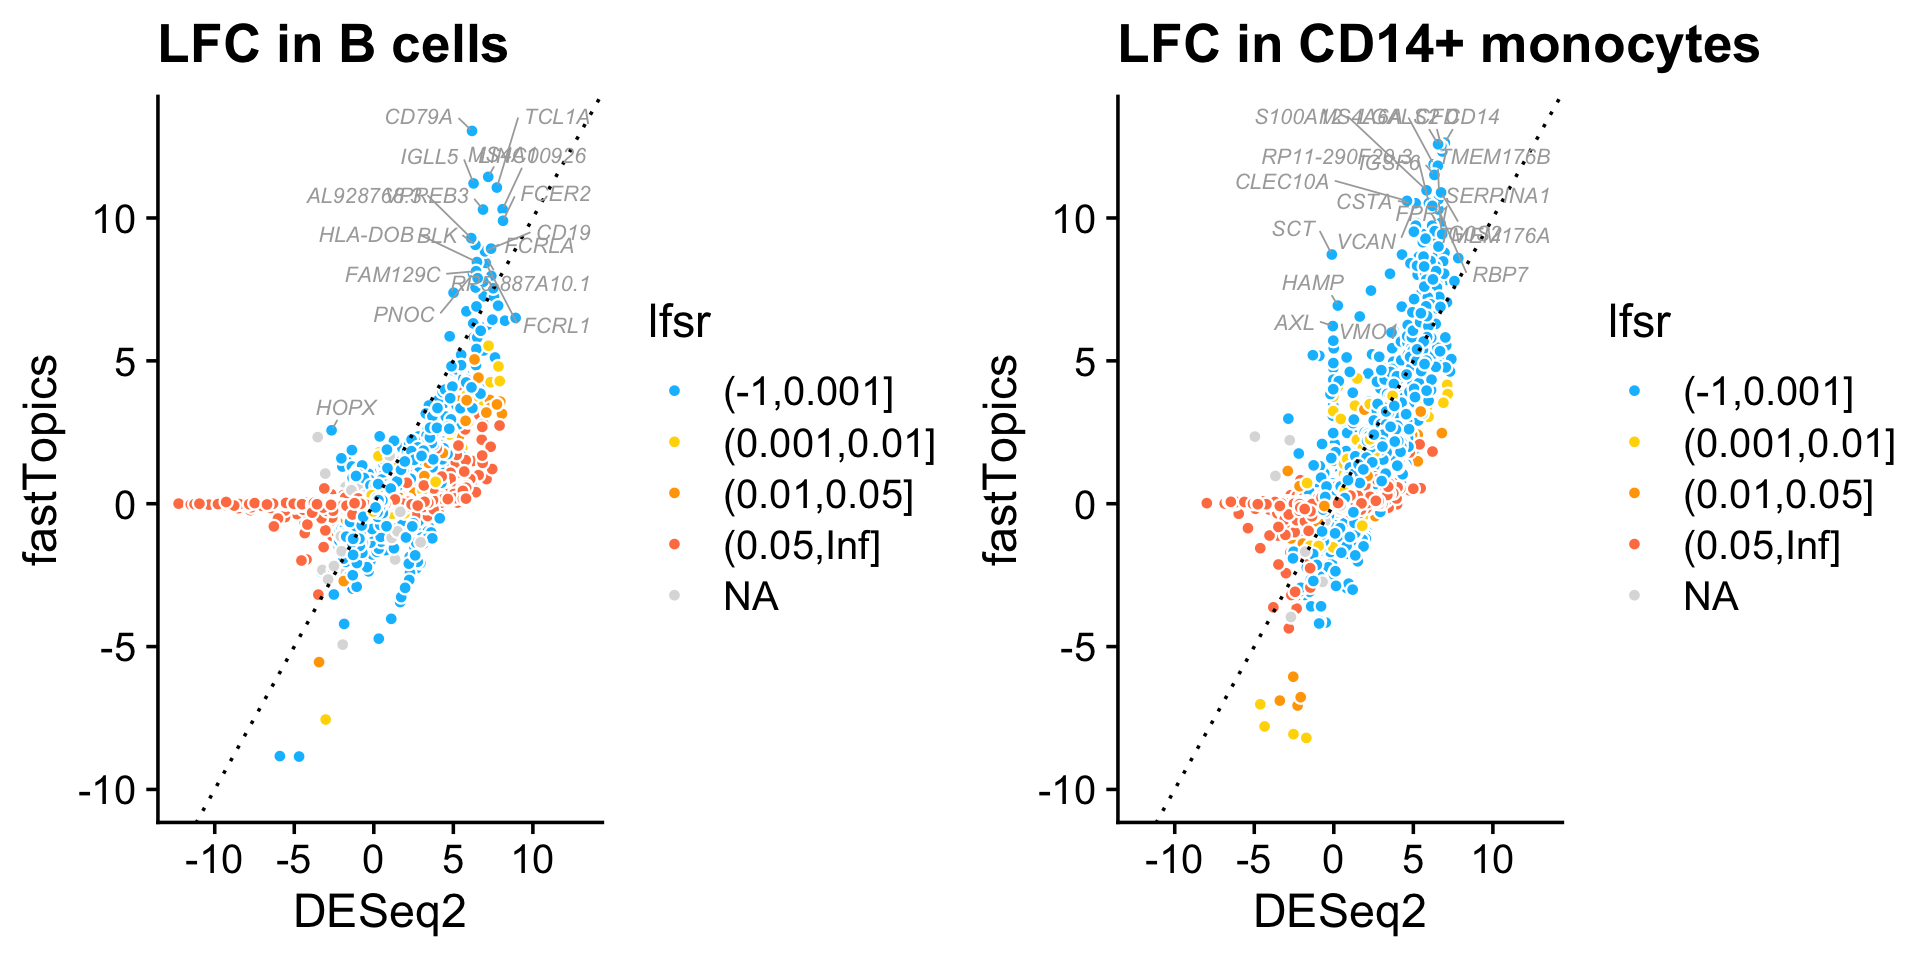
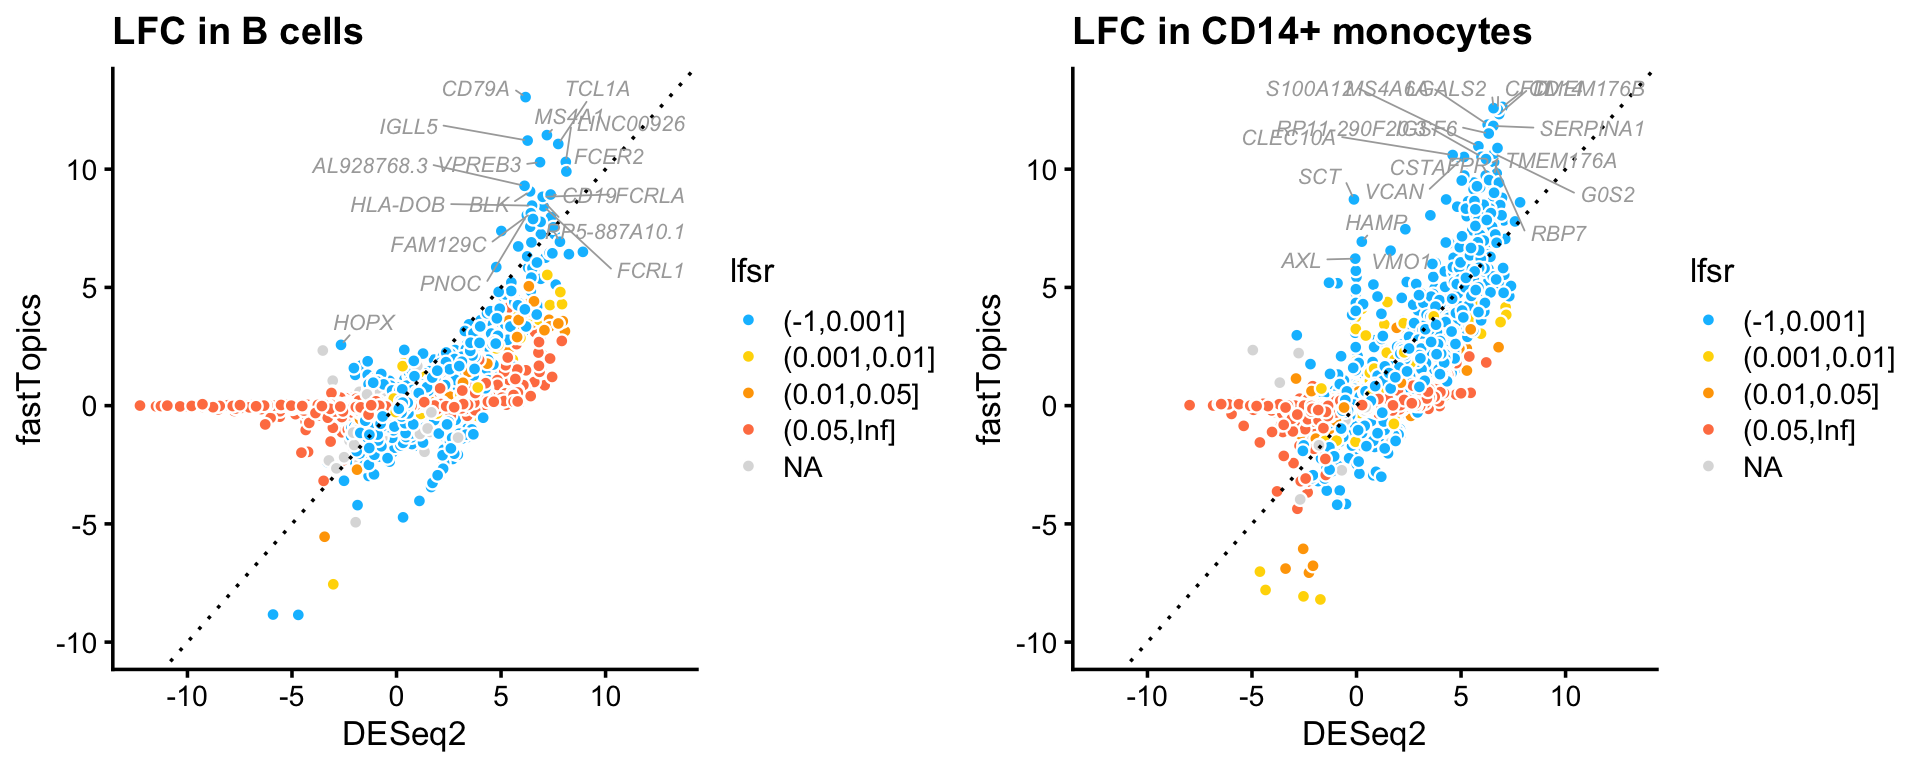
Added steps to save some plots as .eps files in de_analysis_purified_pbmc analysis.

diff --git a/docs/de_analysis_purified_pbmc.html b/docs/de_analysis_purified_pbmc.html
@@ -414,16 +414,16 @@ This reproducible <a href="http://rmarkdown.rstudio.com">R Markdown</a> analysis
 <div class="panel panel-default">
 <div class="panel-heading">
 <p class="panel-title">
-<a data-toggle="collapse" data-parent="#workflowr-checks" href="#strongRepositoryversionstrongahrefhttpsgithubcomstephenslabsinglecelltopicstree278c1ca56f136ad5144294a21c4dc3f6e4f91178targetblank278c1caa"> <span class="glyphicon glyphicon-ok text-success" aria-hidden="true"></span> <strong>Repository version:</strong> <a href="https://github.com/stephenslab/single-cell-topics/tree/278c1ca56f136ad5144294a21c4dc3f6e4f91178" target="_blank">278c1ca</a> </a>
+<a data-toggle="collapse" data-parent="#workflowr-checks" href="#strongRepositoryversionstrongahrefhttpsgithubcomstephenslabsinglecelltopicstree59329423a74c83c06d712bb68195e8c316a5eb8ftargetblank5932942a"> <span class="glyphicon glyphicon-ok text-success" aria-hidden="true"></span> <strong>Repository version:</strong> <a href="https://github.com/stephenslab/single-cell-topics/tree/59329423a74c83c06d712bb68195e8c316a5eb8f" target="_blank">5932942</a> </a>
 </p>
 </div>
[2 lines of base64/hex data omitted]
 <div class="panel-body">
 <p>
 Great! You are using Git for version control. Tracking code development and connecting the code version to the results is critical for reproducibility.
 </p>
 <p>
-The results in this page were generated with repository version <a href="https://github.com/stephenslab/single-cell-topics/tree/278c1ca56f136ad5144294a21c4dc3f6e4f91178" target="_blank">278c1ca</a>. See the <em>Past versions</em> tab to see a history of the changes made to the R Markdown and HTML files.
+The results in this page were generated with repository version <a href="https://github.com/stephenslab/single-cell-topics/tree/59329423a74c83c06d712bb68195e8c316a5eb8f" target="_blank">5932942</a>. See the <em>Past versions</em> tab to see a history of the changes made to the R Markdown and HTML files.
 </p>
 <p>
 Note that you need to be careful to ensure that all relevant files for the analysis have been committed to Git prior to generating the results (you can use <code>wflow_publish</code> or <code>wflow_git_commit</code>). workflowr only checks the R Markdown file, but you know if there are other scripts or data files that it depends on. Below is the status of the Git repository when the results were generated:
@@ -448,6 +448,12 @@ Ignored files:
 Untracked files:
     Untracked:  analysis/de_analysis_detailed_look_cache/
     Untracked:  analysis/de_analysis_detailed_look_more_cache/
+    Untracked:  analysis/de_analysis_purified_pbmc_bcells.html
+    Untracked:  analysis/de_analysis_purified_pbmc_cd14.html
+    Untracked:  analysis/de_analysis_purified_pbmc_cd34.html
+    Untracked:  analysis/de_analysis_purified_pbmc_nkcells.html
+    Untracked:  analysis/de_analysis_purified_pbmc_ribosome.html
+    Untracked:  analysis/de_analysis_purified_pbmc_tcells.html
     Untracked:  plots/
 
 </code></pre>
@@ -487,6 +493,40 @@ Message
 </tr>
 </thead>
 <tbody>
+<tr>
+<td>
+Rmd
+</td>
+<td>
+<a href="https://github.com/stephenslab/single-cell-topics/blob/59329423a74c83c06d712bb68195e8c316a5eb8f/analysis/de_analysis_purified_pbmc.Rmd" target="_blank">5932942</a>
+</td>
+<td>
+Peter Carbonetto
+</td>
+<td>
+2021-12-09
+</td>
+<td>
+workflowr::wflow_publish(“de_analysis_purified_pbmc.Rmd”, verbose = TRUE)
+</td>
+</tr>
+<tr>
+<td>
+html
+</td>
+<td>
+<a href="https://rawcdn.githack.com/stephenslab/single-cell-topics/16b967fbe3688c1b5dcc52e06cfc77aca06856b4/docs/de_analysis_purified_pbmc.html" target="_blank">16b967f</a>
+</td>
+<td>
+Peter Carbonetto
+</td>
+<td>
+2021-12-09
+</td>
+<td>
+Added CD14+ scatterplot to de_analysis_purified_pbmc analysis.
+</td>
+</tr>
 <tr>
 <td>
 Rmd
@@ -1192,11 +1232,12 @@ rm(de)</code></pre>
 <p>The MCMC estimates of the posterior mean log-fold change (LFC) estimates are largely consistent:</p>
 <pre class="r"><code>pdat &lt;- data.frame(postmean1 = as.vector(de1$postmean),
                    postmean2 = as.vector(de2$postmean))
-ggplot(pdat,aes(x = postmean1,y = postmean2)) +
+p1 &lt;- ggplot(pdat,aes(x = postmean1,y = postmean2)) +
   geom_point(shape = 21,color = &quot;white&quot;,fill = &quot;black&quot;,size = 2) +
   geom_abline(intercept = 0,slope = 1,color = &quot;magenta&quot;,linetype = &quot;dashed&quot;) +
   labs(x = &quot;first posterior mean&quot;,y = &quot;second posterior mean&quot;) +
-  theme_cowplot()</code></pre>
+  theme_cowplot()
+print(p1)</code></pre>
 <p><img src="figure/de_analysis_purified_pbmc.Rmd/assess-monte-carlo-1-1.png" width="390" style="display: block; margin: auto;" /></p>
 <p>
 <button type="button" class="btn btn-default btn-xs btn-workflowr btn-workflowr-fig" data-toggle="collapse" data-target="#fig-assess-monte-carlo-1-1">
@@ -1261,13 +1302,14 @@ Peter Carbonetto
 <pre class="r"><code>pdat &lt;- data.frame(z1 = clamp(as.vector(de1$z),-100,+100),
                    z2 = clamp(as.vector(de2$z),-100,+100),
                    lfsr = factor((de1$lfsr &lt; 0.05) + (de2$lfsr &lt; 0.05)))
-ggplot(pdat,aes(x = z1,y = z2,fill = lfsr)) +
+p2 &lt;- ggplot(pdat,aes(x = z1,y = z2,fill = lfsr)) +
   geom_point(shape = 21,color = &quot;white&quot;,size = 2) +
   geom_abline(intercept = 0,slope = 1,color = &quot;magenta&quot;,linetype = &quot;dotted&quot;) +
   scale_fill_manual(values = c(&quot;darkblue&quot;,&quot;tomato&quot;,&quot;dodgerblue&quot;),
                     na.value = &quot;white&quot;) +
   labs(x = &quot;first z-score&quot;,y = &quot;second z-score&quot;,fill = &quot;lfsr &lt; 0.05&quot;) +
-  theme_cowplot()</code></pre>
+  theme_cowplot()
+print(p2)</code></pre>
 <p><img src="figure/de_analysis_purified_pbmc.Rmd/assess-monte-carlo-3-1.png" width="510" style="display: block; margin: auto;" /></p>
 <p>
 <button type="button" class="btn btn-default btn-xs btn-workflowr btn-workflowr-fig" data-toggle="collapse" data-target="#fig-assess-monte-carlo-3-1">
@@ -1335,6 +1377,7 @@ i              &lt;- which(abs(de2$z) &lt; abs(de1$z))
 de$postmean[i] &lt;- de2$postmean[i]
 de$z[i]        &lt;- de2$z[i]
 de$lfsr[i]     &lt;- de$lfsr[i]</code></pre>
+<pre><code># Warning: Removed 1546 rows containing missing values (geom_point).</code></pre>
 </div>
 <div id="load-deseq2-results-for-all-cell-types" class="section level2">
 <h2>Load DESeq2 results for all cell types</h2>
@@ -1371,11 +1414,12 @@ de$lfsr     &lt;- de$lfsr[rows,]</code></pre>
 pdat &lt;- transform(pdat,
                   deseq      = clamp(deseq,-100,+100),
                   fasttopics = clamp(fasttopics,-100,+100))
-ggplot(pdat,aes(x = deseq,y = fasttopics)) +
+p1 &lt;- ggplot(pdat,aes(x = deseq,y = fasttopics)) +
   geom_point() +
   geom_abline(intercept = 0,slope = 1,color = &quot;magenta&quot;,linetype = &quot;dotted&quot;) +
   labs(x = &quot;DESeq2&quot;,y = &quot;fastTopics&quot;,title = &quot;z-score quantiles&quot;) +
-  theme_cowplot()</code></pre>
+  theme_cowplot()
+print(p1)</code></pre>
 <p><img src="figure/de_analysis_purified_pbmc.Rmd/z-score-scatterplot-1.png" width="390" style="display: block; margin: auto;" /></p>
 <p>
 <button type="button" class="btn btn-default btn-xs btn-workflowr btn-workflowr-fig" data-toggle="collapse" data-target="#fig-z-score-scatterplot-1">
@@ -1441,7 +1485,7 @@ p1 &lt;- ggplot(pdat1,aes(x = postmean.deseq,y = postmean.fasttopics,
   ylim(-10,13.1) +
   labs(x = &quot;DESeq2&quot;,y = &quot;fastTopics&quot;,
        title = &quot;LFC in B cells&quot;) +
-  theme_cowplot()
+  theme_cowplot(font_size = 10)
 i &lt;- &quot;CD14+ Monocyte&quot;
 k &lt;- &quot;k2&quot;
 pdat2 &lt;- data.frame(gene                = genes$symbol,
@@ -1469,7 +1513,7 @@ p2 &lt;- ggplot(pdat2,aes(x = postmean.deseq,y = postmean.fasttopics,
   ylim(-10,13.1) +
   labs(x = &quot;DESeq2&quot;,y = &quot;fastTopics&quot;,
        title = &quot;LFC in CD14+ monocytes&quot;) +
-  theme_cowplot()
+  theme_cowplot(font_size = 10)
 plot_grid(p1,p2)</code></pre>
 <p><img src="figure/de_analysis_purified_pbmc.Rmd/bcells-z-scores-1.png" width="960" style="display: block; margin: auto;" /></p>
 <p>
@@ -1494,6 +1538,17 @@ Date
 </tr>
 </thead>
 <tbody>
+<tr>
+<td>
+<a href="https://github.com/stephenslab/single-cell-topics/blob/16b967fbe3688c1b5dcc52e06cfc77aca06856b4/docs/figure/de_analysis_purified_pbmc.Rmd/bcells-z-scores-1.png" target="_blank">16b967f</a>
+</td>
+<td>
+Peter Carbonetto
+</td>
+<td>
+2021-12-09
+</td>
+</tr>
 <tr>
 <td>
 <a href="https://github.com/stephenslab/single-cell-topics/blob/e13338acc8abba5b5612657a6b21d22f1af54ca9/docs/figure/de_analysis_purified_pbmc.Rmd/bcells-z-scores-1.png" target="_blank">e13338a</a>
@@ -1570,6 +1625,7 @@ Peter Carbonetto
 <li><p>Most of the LFC estimates in the fastTopics DE analysis agree with, but are lower than, the LFC estimates in the DESeq2 analysis. The one exception is the genes with the largest expression increases in B cells: both DESeq2 and fastTopics largely identifies the same genes with the largest increases in expression in B cells, but the LFC is higher for most of these genes in the fastTopics analysis.</p></li>
 <li><p>I highlighted here the <em>HOPX</em> gene because this is a gene that was identified in the fastTopics analysis, but not DESeq2 analysis, presumably because this gene is more strongly expressed in cells that are not actually labeled as “B cell” by FACS.</p></li>
 </ul>
+<pre><code># Warning: Removed 3 rows containing missing values (geom_point).</code></pre>
 <p>The fastTopics DE analysis for all 6 topics is summarized in the following volcano plots:</p>
 <pre class="r"><code>p1 &lt;- volcano_plot(de,k = &quot;k1&quot;,ymax = 150,labels = genes$symbol)
 p2 &lt;- volcano_plot(de,k = &quot;k2&quot;,ymax = 175,labels = genes$symbol)
@@ -1601,6 +1657,17 @@ Date
 </tr>
 </thead>
 <tbody>
+<tr>
+<td>
+<a href="https://github.com/stephenslab/single-cell-topics/blob/16b967fbe3688c1b5dcc52e06cfc77aca06856b4/docs/figure/de_analysis_purified_pbmc.Rmd/volcano-plots-1.png" target="_blank">16b967f</a>
+</td>
+<td>
+Peter Carbonetto
+</td>
+<td>
+2021-12-09
+</td>
+</tr>
 <tr>
 <td>
 <a href="https://github.com/stephenslab/single-cell-topics/blob/e13338acc8abba5b5612657a6b21d22f1af54ca9/docs/figure/de_analysis_purified_pbmc.Rmd/volcano-plots-1.png" target="_blank">e13338a</a>
